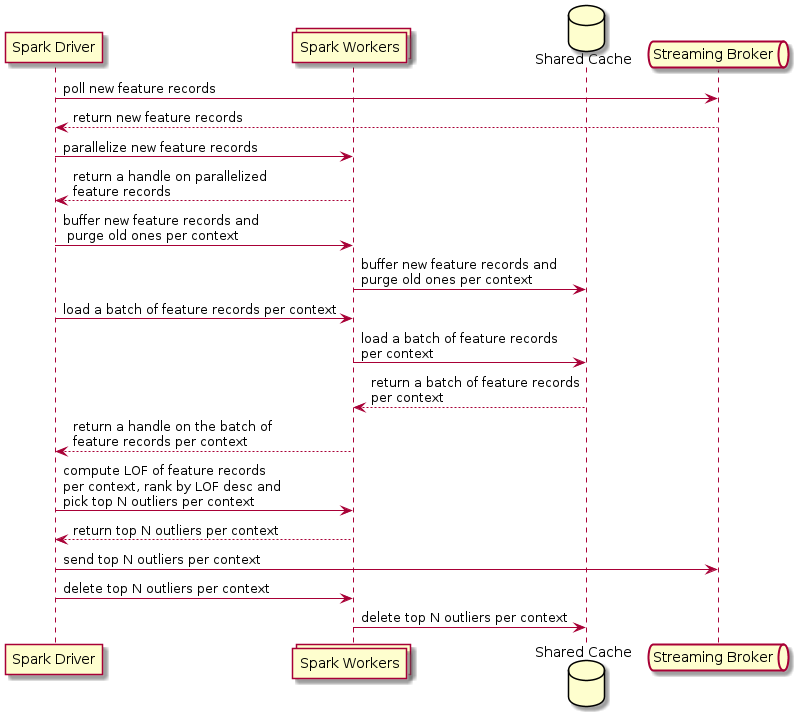
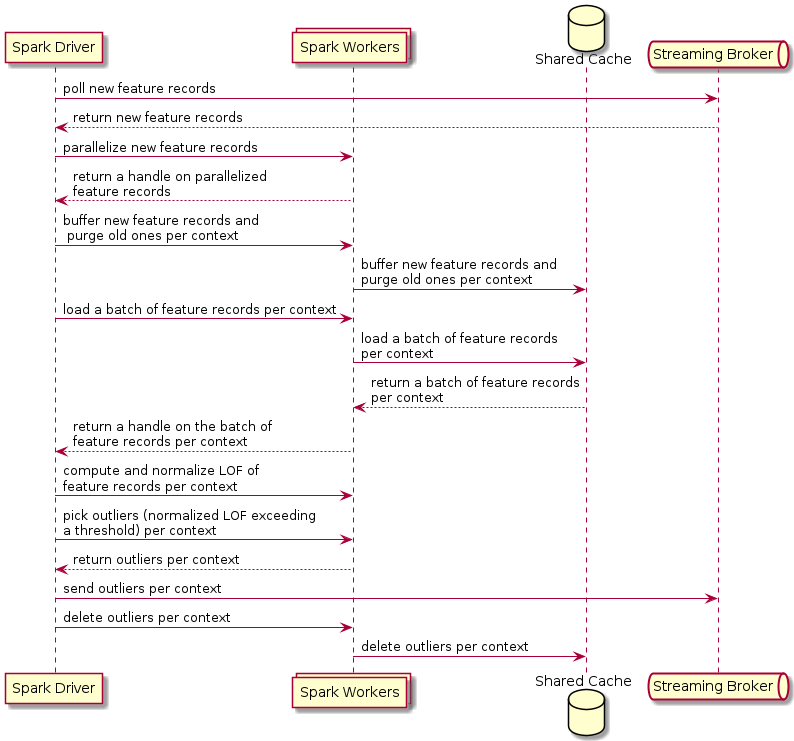
updates

diff --git a/microservices/analyzer/framework/src/main/java/org/immunizer/microservices/analyzer/Analyzer.java b/microservices/analyzer/framework/src/main/java/org/immunizer/microservices/analyzer/Analyzer.java
@@ -8,21 +8,22 @@ import java.util.List;
 import org.apache.spark.api.java.JavaSparkContext;
 import org.apache.spark.ml.outlier.LOF;
 import org.apache.spark.sql.Dataset;
-import org.apache.spark.sql.Row;
+import org.apache.spark.sql.Row;    
 import org.apache.spark.sql.SparkSession;
 import org.apache.spark.api.java.JavaDoubleRDD;
 import scala.Tuple2;
-import org.apache.commons.math3.distribution.NormalDistribution;
+import org.apache.commons.math3.special.Erf;
 
 public class Analyzer {
 
     private static final String SPARK_MASTER_URL = "spark://spark-master:7077";
     private static final String APP_NAME = "Analyzer";
     private static final int POLL_PERIOD = 60;
-    private static final int MIN_POLL_SIZE = 1000;
+    private static final int MIN_POLL_SIZE = 5000;
+    private static final int MIN_BATCH_SIZE = 50000;
     private static final int MAX_BATCH_SIZE = 100000;
     private static final int MIN_POINTS = 400;
-    private static final double OUTLIER_PROBABILITY_THRESHOLD = 0.98;
+    private static final double OUTLIER_RATIO = 1 / 10000;
 
     public static void main(String[] args) throws Exception {
         SparkSession sparkSession = SparkSession.builder().appName(APP_NAME).master(SPARK_MASTER_URL).getOrCreate();
@@ -30,11 +31,12 @@ public class Analyzer {
         DistributedCache cache = new DistributedCache(sparkSession);
         FeatureRecordConsumer featureRecordConsumer = new FeatureRecordConsumer(sc, cache);
         OutlierProducer outlierProducer = new OutlierProducer();
+        double y = Erf.erfInv(1 - OUTLIER_RATIO * 2) * Math.sqrt(2);
 
         try {
             while (true) {
                 Iterator<String> contexts = featureRecordConsumer.pollAndGetContexts(POLL_PERIOD, MIN_POLL_SIZE,
-                        MAX_BATCH_SIZE);
+                        MIN_BATCH_SIZE, MAX_BATCH_SIZE);
 
                 while (contexts.hasNext()) {
                     String context = contexts.next();
@@ -43,18 +45,23 @@ public class Analyzer {
                     Dataset<Row> lofDS = new LOF().setMinPts(MIN_POINTS).transform(df);
                     JavaDoubleRDD lofRDD = lofDS.select("lof").toJavaRDD().<Double>map(row -> row.getDouble(0))
                             .mapToDouble(x -> x);
-                    NormalDistribution nd = new NormalDistribution(lofRDD.mean(), lofRDD.stdev());
+                    double mean = lofRDD.mean();
+                    double sd = lofRDD.stdev();
+                    double threshold = mean + y * sd;
+                    
+                    // Pick only those records whose LOF deviates from the mean
+                    // by more than y * sd, i.e., only top OUTLIER_PERCENTAGE,
+                    // as y has been computed on this basis (using erfInv)
                     List<Long> outliers = lofDS.toJavaRDD()
-                            .mapToPair(row -> new Tuple2<Long, Double>(row.getLong(0),
-                                    2 * nd.cumulativeProbability(row.getDouble(1)) - 1))
-                            .filter(record -> record._2 > OUTLIER_PROBABILITY_THRESHOLD).map(record -> record._1)
+                            .filter(record -> record.getDouble(1) > threshold)
+                            .map(record -> record.getLong(0))
                             .collect();
 
                     outliers.forEach(key -> {
                         FeatureRecord fr = cache.get(context, key);
                         outlierProducer.send(fr);
 
-                        // Get rid of these outliers for the next cycle
+                        // Get rid of these outliers for a cleaner next cycle
                         cache.delete(context, key);
                     });
                 }

diff --git a/microservices/analyzer/framework/src/main/java/org/immunizer/microservices/analyzer/FeatureRecord.java b/microservices/analyzer/framework/src/main/java/org/immunizer/microservices/analyzer/FeatureRecord.java
@@ -6,55 +6,28 @@ import java.io.Serializable;
 public class FeatureRecord implements Serializable {
 
     private static final long serialVersionUID = 1354353L;
-
-    private String callStackId;
     private String tag;
     private String label;
-    private String swid;
-    private String cxid;
+    private String swId;            // ISO/IEC 19770-2 SWID
+    private String icxId;           // Instance context ID
+    private String callStackId;     // Call stack ID
     private String fullyQualifiedMethodName;
     private Map<String, Double> record;
-
-    public void setCallStackId(String callStackId) {
-        this.callStackId = callStackId;
-    }
-
-    public void setTag(String tag) {
-        this.tag = tag;
-    }
-
-    public void setLabel(String label) {
-        this.label = label;
-    }
-
-    public void setSwid(String swid) {
-        this.swid = swid;
-    }
-
-    public void setCxid(String cxid) {
-        this.cxid = cxid;
-    }
-
-    public void setFullyQualifiedMethodName(String fullyQualifiedMethodName) {
-        this.fullyQualifiedMethodName = fullyQualifiedMethodName;
-    }
-
-    public void setRecord(Map<String, Double> record) {
-        this.record = record;
-    }
+    private Map<String, String> suspects;
 
     protected FeatureRecord() {
     }
 
-    public FeatureRecord(String callStackId, String tag, String label,
-            String fullyQualifiedMethodName, String swid, String cxid, Map<String, Double> record) {
-        this.callStackId = callStackId;
+    public FeatureRecord(String callStackId, String tag, String label, String fullyQualifiedMethodName, String swId, String icxId,
+            Map<String, Double> record, Map<String, String> suspects) {
         this.tag = tag;
         this.label = label;
         this.fullyQualifiedMethodName = fullyQualifiedMethodName;
-        this.swid = swid;
-        this.cxid = cxid;
+        this.swId = swId;
+        this.icxId = icxId;
+        this.callStackId = callStackId;
         this.record = record;
+        this.suspects = suspects;
     }
 
     public String getCallStackId() {
@@ -73,15 +46,19 @@ public class FeatureRecord implements Serializable {
         return fullyQualifiedMethodName;
     }
 
-    public String getSwid() {
-        return swid;
+    public String getSwId() {
+        return swId;
     }
 
-    public String getCxid() {
-        return cxid;
+    public String getIcxId() {
+        return icxId;
     }
 
     public Map<String, Double> getRecord() {
         return record;
+    }
+
+    public Map<String, String> getSuspects() {
+        return suspects;
     }
 }

diff --git a/microservices/analyzer/framework/src/main/java/org/immunizer/microservices/analyzer/FeatureRecordConsumer.java b/microservices/analyzer/framework/src/main/java/org/immunizer/microservices/analyzer/FeatureRecordConsumer.java
@@ -43,7 +43,7 @@ public class FeatureRecordConsumer {
         this.sc = sc;
     }
 
-    public Iterator<String> pollAndGetContexts(int pollPeriod, int minPollSize, int maxBatchSize) {
+    public Iterator<String> pollAndGetContexts(int pollPeriod, int minPollSize, int minBatchSize, int maxBatchSize) {
         ConsumerRecords<String, FeatureRecord> records = consumer.poll(Duration.ofSeconds(pollPeriod));
         LinkedList<String> contexts = new LinkedList<>();
 
@@ -55,8 +55,8 @@ public class FeatureRecordConsumer {
             JavaPairRDD<Long, FeatureRecord> featureRecordsRDD = sc.parallelize(partitionRecords)
                     .mapToPair(record -> new Tuple2<Long, FeatureRecord>(record.offset(), record.value()));
 
-            String context = partitionRecords.get(0).value().getSwid() + '/'
-                    + partitionRecords.get(0).value().getCxid() + '/'
+            String context = partitionRecords.get(0).value().getSwId() + '/'
+                    + partitionRecords.get(0).value().getIcxId() + '/'
                     + partitionRecords.get(0).value().getCallStackId();
 
             cache.save(context, featureRecordsRDD);
@@ -64,9 +64,11 @@ public class FeatureRecordConsumer {
             long lastOffset = partitionRecords.get(partitionRecords.size() - 1).offset();
             consumer.commitSync(Collections.singletonMap(partition, new OffsetAndMetadata(lastOffset + 1)));
 
-            if (lastOffset >= maxBatchSize) {
+            if (lastOffset >= minBatchSize) {
                 contexts.add(context);
-                cache.purge(context, lastOffset - maxBatchSize);
+                if (lastOffset >= maxBatchSize) {
+                    cache.purge(context, lastOffset - maxBatchSize);
+                }
             }
         }
         return contexts.iterator();

diff --git a/microservices/analyzer/framework/src/main/java/org/immunizer/microservices/analyzer/OutlierProducer.java b/microservices/analyzer/framework/src/main/java/org/immunizer/microservices/analyzer/OutlierProducer.java
@@ -13,7 +13,7 @@ public class OutlierProducer implements Serializable {
 
     private transient KafkaProducer<String, FeatureRecord> producer;
     private static final String BOOTSTRAP_SERVERS = "localhost:29092";
-    private static final String BASE_TOPIC = "OTL";
+    private static final String BASE_TOPIC = "OTL/";
 
     public OutlierProducer() {
         Properties props = new Properties();
@@ -25,8 +25,8 @@ public class OutlierProducer implements Serializable {
     }
 
     public void send(FeatureRecord featureRecord) {
-        producer.send(new ProducerRecord<>(BASE_TOPIC + '/' + featureRecord.getSwid(),
-                featureRecord.getCallStackId(), featureRecord));
+        producer.send(new ProducerRecord<>(BASE_TOPIC + featureRecord.getSwId() + '_' + featureRecord.getIcxId()
+                + '_' + featureRecord.getCallStackId(), 0, "0", featureRecord));
     }
 
     public void close() {
